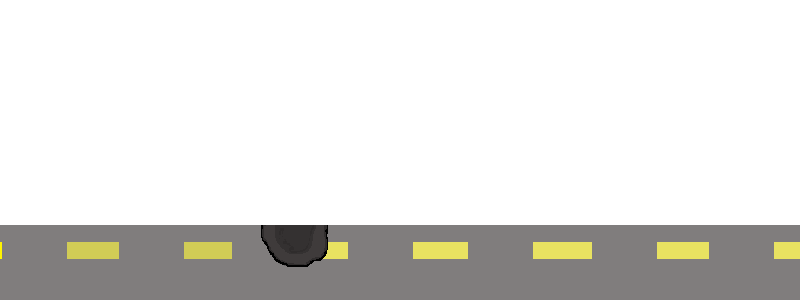
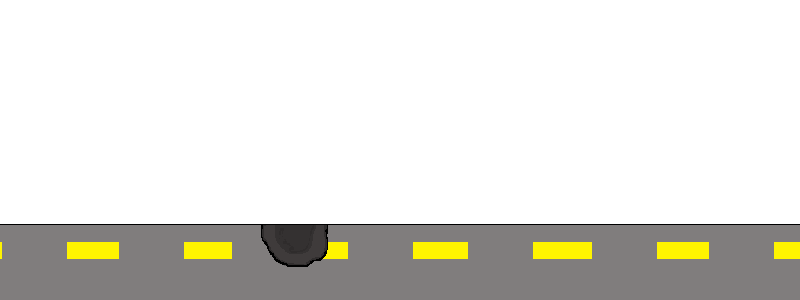
background in progress

diff --git a/src/script.js b/src/script.js
@@ -19,7 +19,7 @@ canvas.style.width=canvas.getBoundingClientRect().width;//actual width of canvas
 canvas.style.height=canvas.getBoundingClientRect().height;//actual height of canvas
 // canvas.style.background_image = url("src/assets/images/background/background-concept.png");
 
-document.getElementById('canvas2').style.backgroundImage="url(src/assets/images/background/background-concept.png)"; // specify the image path here
+document.getElementById('canvas2').style.backgroundImage="url(src/assets/images/background/background-working.png)"; // specify the image path here
 
 // STRICTLY FOR BULLETS:
 var bullet_canvas = document.getElementById("bullet-canvas");
@@ -274,6 +274,7 @@ THEORY: it must be natural state causing this, as it does not run when offending
 // there should be NO crawlies on special   --DONE
 // WAY to many dogs on special  --DONE
 // TODO: figured out why audio crashes. Two flammen is overwhelming. --DONE
+// TODO: colors in gimp are faded across ALL drawings. Find out why.
 
 let roundCounts = [6, 10]; 
 
@@ -459,8 +460,8 @@ let currentSpeed = 1.5;
 let snackQueue = [];
 let nadeQueue = [];
 
-let state = "MENU";
-// let state = "LOADING";
+// let state = "MENU";
+let state = "LOADING";
 
 let loadingTime = [4000, 5000][Math.floor(Math.random() * 2)];
 
